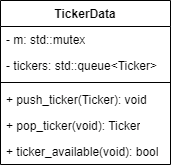
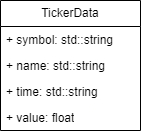
Created simple data structure for output frameworks to use

Changed region(s): [[0.0, 0.0, 1.0, 0.9851]]

diff --git a/src/TickerQueue.cpp b/src/TickerQueue.cpp
@@ -1,0 +1,23 @@
+#include "TickerQueue.h"
+
+using namespace opt;
+
+TickerQueue::TickerQueue(std::string format_string) { 
+    this->format_string = format_string;
+}
+
+void TickerQueue::push_ticker(Ticker ticker) { tickers.push(ticker); }
+
+TickerData TickerQueue::pop_data(void) { 
+    Ticker ticker = tickers.front(); 
+    tickers.pop();
+
+    return TickerData(
+        ticker.get_symbol().get_symbol(),
+        ticker.get_symbol().get_name(),
+        ticker.get_time().format(format_string),
+        ticker.get_value()
+    );
+}
+
+bool TickerQueue::ticker_available(void) { return !tickers.empty(); }

diff --git a/src/TickerData.cpp b/src/TickerData.cpp
@@ -2,12 +2,10 @@
 
 using namespace opt;
 
-void TickerData::push_ticker(Ticker ticker) { tickers.push(ticker); }
-
-Ticker TickerData::pop_ticker(void) { 
-    Ticker res = tickers.front(); 
-    tickers.pop();
-    return res;
+TickerData::TickerData(std::string symbol, std::string name,
+        std::string timestamp, float value) {
+    this->symbol = symbol;
+    this->name = name;
+    this->timestamp = timestamp;
+    this->value = value;
 }
-
-bool TickerData::ticker_available(void) { return !tickers.empty(); }

diff --git a/include/TickerData.h b/include/TickerData.h
@@ -1,23 +1,17 @@
 #ifndef opt_TickerData_h
 #define opt_TickerData_h
 
-#include "Ticker.h"
-
-#include <queue>
+#include <string>
 
 namespace opt {
 
-    class TickerData {
+    struct TickerData {
 
-        std::queue<Ticker> tickers;
+        std::string symbol, name, timestamp;
 
-    public:
+        float value;
 
-        void push_ticker(Ticker);
-
-        Ticker pop_ticker(void);
-
-        bool ticker_available(void);
+        TickerData(std::string, std::string, std::string, float);
 
     };
 

diff --git a/include/TickerQueue.h b/include/TickerQueue.h
@@ -1,0 +1,31 @@
+#ifndef opt_TickerQueue_h
+#define opt_TickerQueue_h
+
+#include "Ticker.h"
+#include "TickerData.h"
+
+#include <queue>
+
+namespace opt {
+
+    class TickerQueue {
+
+        std::queue<Ticker> tickers;
+
+        std::string format_string;
+
+    public:
+
+        TickerQueue(std::string);
+
+        void push_ticker(Ticker);
+
+        TickerData pop_data(void);
+
+        bool ticker_available(void);
+
+    };
+
+}
+
+#endif

diff --git a/include/TickerAdapter.h b/include/TickerAdapter.h
@@ -2,17 +2,17 @@
 #define opt_TickerAdapter_h
 
 #include "ITickerOutput.h"
-#include "TickerData.h"
+#include "TickerQueue.h"
 
 namespace opt {
 
     class TickerAdapter : public ITickerOutput {
 
-        TickerData& output_data;
+        TickerQueue& output_data;
 
     public:
 
-        TickerAdapter(TickerData&);
+        TickerAdapter(TickerQueue&);
 
         void push_ticker(Ticker);
 

diff --git a/src/TickerAdapter.cpp b/src/TickerAdapter.cpp
@@ -2,6 +2,6 @@
 
 using namespace opt;
 
-TickerAdapter::TickerAdapter(TickerData& data) : output_data(data) {}
+TickerAdapter::TickerAdapter(TickerQueue& data) : output_data(data) {}
 
 void TickerAdapter::push_ticker(Ticker ticker) { output_data.push_ticker(ticker); }
